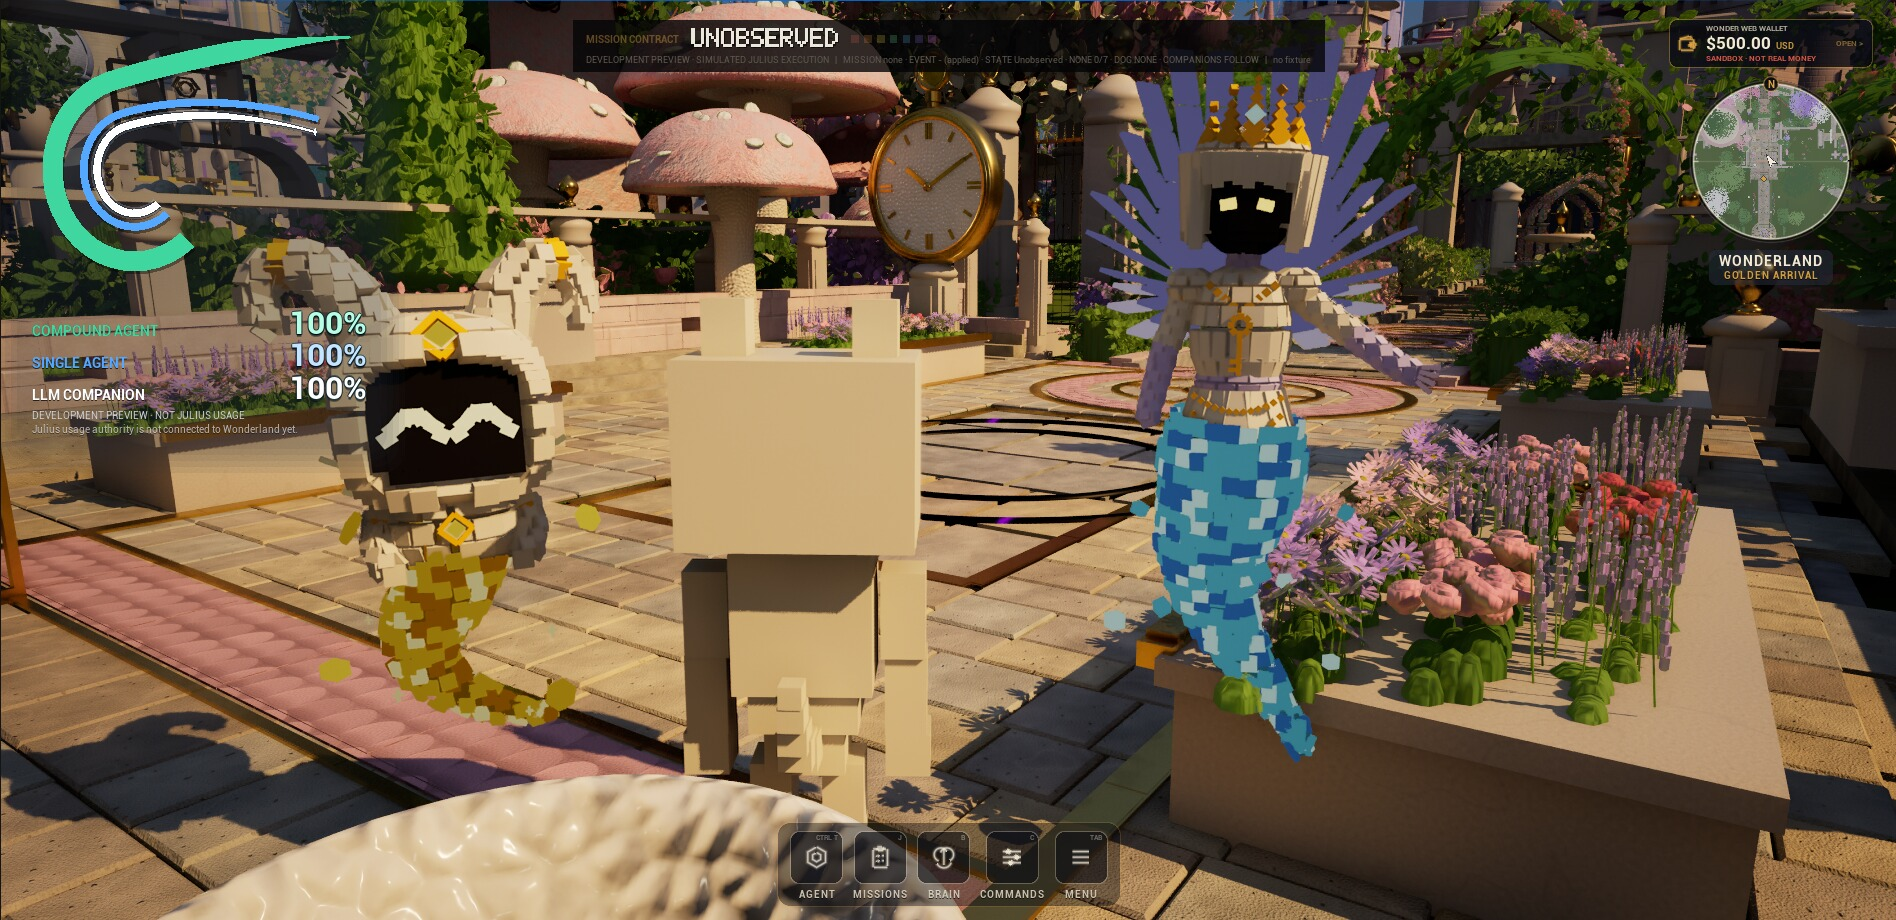
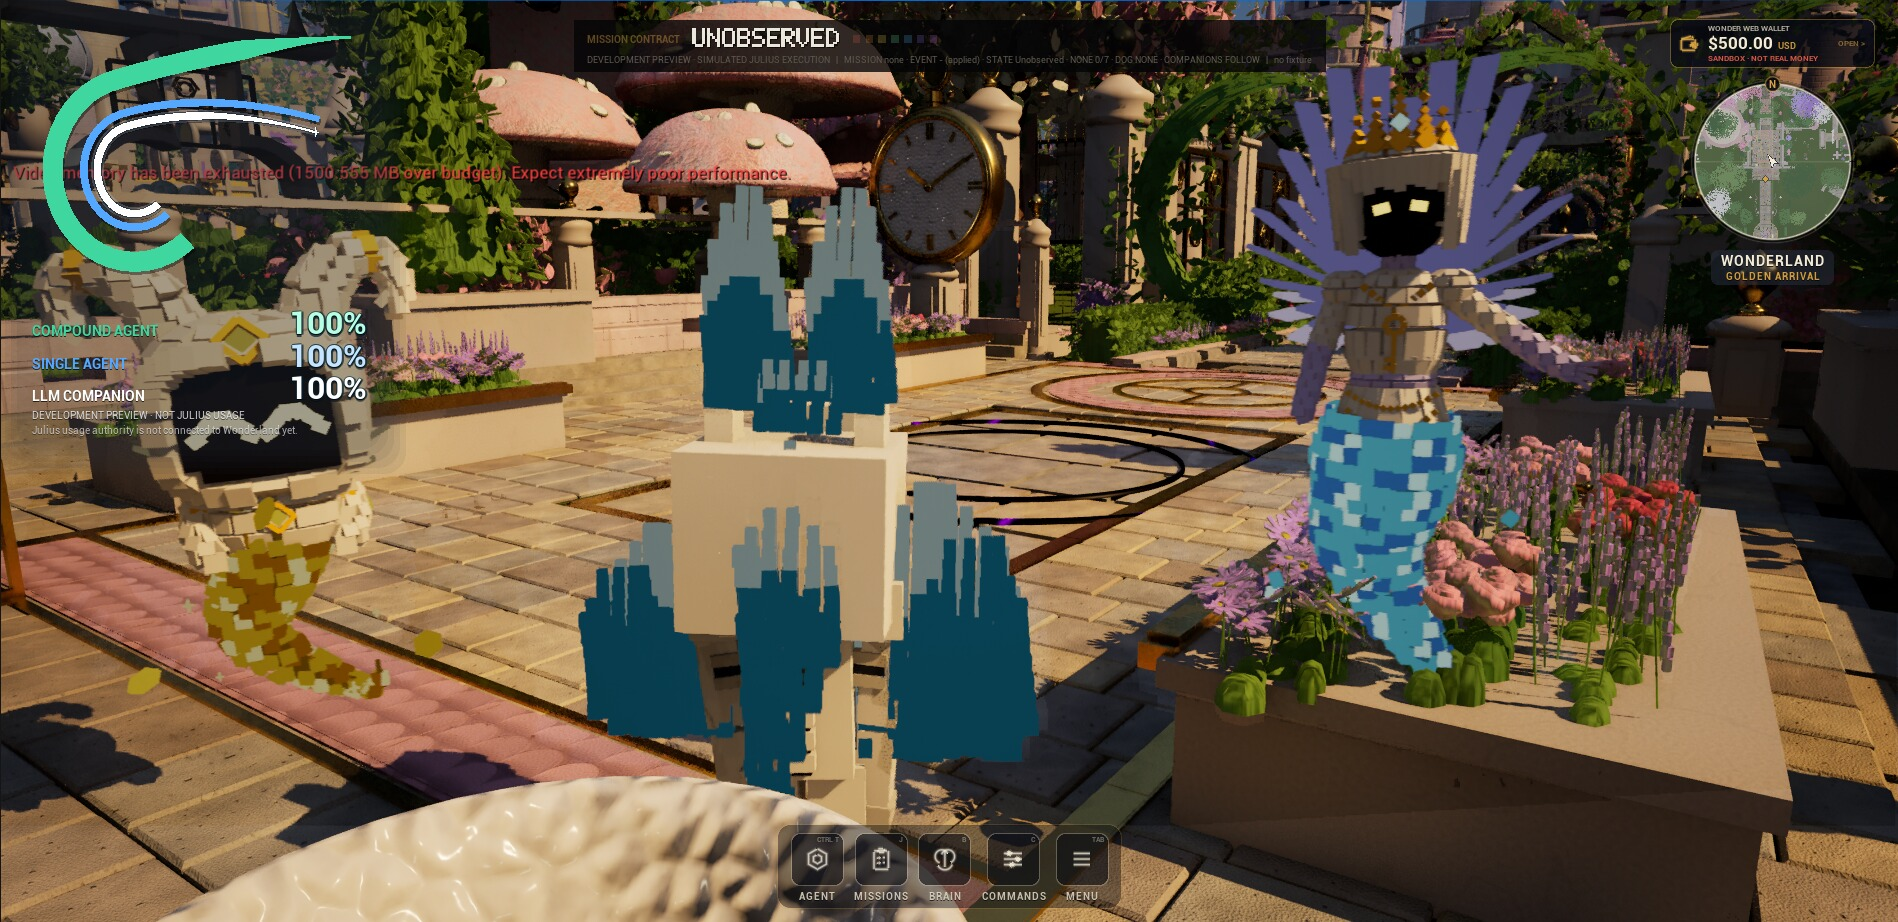
Wardrobe: the black preview works, and the view no longer moves when a skin is clicked
TWO FIXES, BOTH PIE VERIFIED, plus the measurement that should have caught this weeks ago.

1. THE MEASUREMENT WAS WRONG. Every previous run asked IsProjectBrainOpen(), got true, and reported the
   wardrobe fixed while the founder kept seeing Wonderland. The panel WAS open -- the camera had left. The
   panel staying open was never the question. zc_wardrobe_truth.py now samples the player controller's VIEW
   TARGET and the camera's world location before and after every single click. Measured across opening the
   wardrobe and clicking all five skins: CameraActor_60 at (-327.3, -650.0, 179.1), unchanged, every time.

2. THE BLACK BACKGROUND IS BACK, and the reason it was missing is worth recording. The skin stage HIDES its
   own back wall whenever it stands in the world -- "a dark wall in the arrival plaza would read as broken
   scenery", which was true when the preview body stood loose in the open plaza. It stopped being true the
   moment the body started being placed on the ray leaving the real camera through the wardrobe's window: the
   only thing that can see that wall now is the window, and a wall is exactly what was asked for there. Shown,
   squared to the body, sized off the figure's own height.

Verified in PIE: Project Brain open, wardrobe open, Relay OG / Apollo / Arden / Skeleton Flame / Celestial
Light each clicked -- preview updates, background is black, view target never moves, Project Brain never
closes. Five skins in the list; Bee and Hagoromo gone.
[…]

diff --git a/wonderland/Tools/editor_jobs/zc_wardrobe_truth.py b/wonderland/Tools/editor_jobs/zc_wardrobe_truth.py
@@ -1,0 +1,85 @@
+# DOES CLICKING A SKIN MOVE THE PLAYER'S VIEW?
+#
+# THE MEASUREMENT I GOT WRONG. Every previous run asked IsProjectBrainOpen() and came back true, so I reported
+# the wardrobe fixed while the founder kept seeing Wonderland. The panel WAS open. The camera had left. The
+# panel staying open was never the question.
+#
+# So this watches the thing that actually moves him: the player controller's VIEW TARGET, and the camera's
+# world location, sampled before and after every single click. If either changes, the click took him somewhere,
+# and that is a FAIL no matter what the panel says about itself.
+import os
+
+L = unreal.WonderlandUiTestLibrary
+H = unreal.WonderlandHudTestLibrary
+ROOT = os.path.join(os.path.dirname(CHANNEL), "captures", "zc", "wardrobe_truth")
+SKINS = ["relay_og", "apollo", "arden_infernal", "skeleton_flame", "celestial_light"]
+
+
+def job():
+    os.makedirs(ROOT, exist_ok=True)
+    for old in os.listdir(ROOT):
+        if old.endswith(".jpg"):
+            os.remove(os.path.join(ROOT, old))
+    les = unreal.get_editor_subsystem(unreal.LevelEditorSubsystem)
+    ues = unreal.get_editor_subsystem(unreal.UnrealEditorSubsystem)
+    rows = []
+    RESULT["clicks"] = rows
+    RESULT["status"] = "running"
+
+    yield (lambda: ues.get_game_world() is None, 1800)
+    L.set_background_throttle_suspended(True)
+    les.editor_request_begin_play()
+    yield (lambda: ues.get_game_world() is not None, 240)
+    yield (lambda: unreal.GameplayStatics.get_player_pawn(ues.get_game_world(), 0) is not None, 120)
+    yield 5.0
+    world = ues.get_game_world()
+    pc = unreal.GameplayStatics.get_player_controller(world, 0)
+    ui = L.get_ui(world)
+    L.focus_game_viewport()
+    yield 0.5
+
+    def view_state():
+        """What the player is actually looking through, and from where."""
+        target = pc.get_view_target()
+        cam = pc.player_camera_manager
+        loc = cam.get_camera_location() if cam else unreal.Vector(0, 0, 0)
+        return (target.get_name() if target else "none",
+                round(loc.x, 1), round(loc.y, 1), round(loc.z, 1))
+
+    def shot(name):
+        H.capture_viewport_jpeg(os.path.join(ROOT, "%s.jpg" % name), 1700, 90)
+
+    ui.toggle_project_brain()
+    yield 2.0
+    RESULT["brain_open"] = bool(ui.is_project_brain_open())
+    before_open = view_state()
+    RESULT["view_before_wardrobe"] = before_open
+    shot("01_brain")
+
+    RESULT["wardrobe_opened"] = bool(ui.set_brain_skins_open(True))
+    yield 2.2
+    after_open = view_state()
+    RESULT["view_after_wardrobe"] = after_open
+    RESULT["wardrobe_moved_the_view"] = (before_open != after_open)
+    shot("02_wardrobe")
+
+    for skin in SKINS:
+        before = view_state()
+        worn = bool(ui.wear_relay_skin(skin))
+        yield 1.8
+        after = view_state()
+        moved = (before != after)
+        rows.append({
+            "skin": skin, "worn": worn,
+            "view_before": before, "view_after": after,
+            "VIEW_MOVED": moved,
+            "brain_still_open": bool(ui.is_project_brain_open()),
+        })
+        shot("03_%s" % skin)
+
+    RESULT["any_click_moved_the_view"] = any(r["VIEW_MOVED"] for r in rows)
+    RESULT["brain_open_at_end"] = bool(ui.is_project_brain_open())
+    RESULT["view_at_end"] = view_state()
+    RESULT["status"] = "measured"
+    les.editor_request_end_play()
+    yield (lambda: ues.get_game_world() is None, 300)

diff --git a/wonderland/Source/Wonderland/WonderlandUiSubsystem.cpp b/wonderland/Source/Wonderland/WonderlandUiSubsystem.cpp
@@ -1539,6 +1539,39 @@ void UWonderlandUiSubsystem::FrameRelayDogInWardrobe(bool bOn)
 			// registry, so a click re-dresses it without anything here being told about it).
 			Stage->SetInWorldPreview(true, Spot - FVector(0.0, 0.0, Height * 0.5), (RealEye - Spot).GetSafeNormal2D().Rotation());
 		}
+
+		// AND THE BLACK GOES BEHIND THE NEW SPOT, not the old one.
+		//
+		// The backdrop above was placed relative to the virtual camera this function used to fly the player to.
+		// Once the subject started coming to the window instead, that camera stopped existing -- so the black
+		// panel was still being parked out in the garden while the preview window showed whatever the REAL
+		// camera happened to be pointing at. The founder's words: "Wardrobe still does NOT have the correct
+		// black background preview area." It was there, behind the wrong thing.
+		//
+		// Squarely across the ray, far enough past the figure to clear it, and big enough that the window's
+		// corners are still panel at that distance.
+		if (AActor* Black = Self->WardrobeBackdrop.Get())
+		{
+			const FVector Ray = Through.Vector();
+			const float BackOff = Distance * 0.55f;
+			const FVector At = Spot + Ray * BackOff;
+			const float Reach = Distance + BackOff;
+			const float HalfW = Reach * TanH * FMath::Max(Size.X, 0.05f) * 1.60f;
+			const float HalfH = Reach * TanV * FMath::Max(Size.Y, 0.05f) * 1.60f;
+			Black->SetActorLocationAndRotation(At, (RealEye - At).Rotation());
+			// The engine cube is 100 uu, and the wall faces the lens down its own X.
+			Black->SetActorScale3D(FVector(0.04f, FMath::Max(HalfW, 80.0f) / 50.0f, FMath::Max(HalfH, 80.0f) / 50.0f));
+			TInlineComponentArray<UStaticMeshComponent*> Parts(Black);
+			for (UStaticMeshComponent* Part : Parts)
+			{
+				// The deck belonged to a Dog standing on a garden floor. There is no floor in front of the
+				// lens here, so the wall alone is the background and the deck only gets in the way.
+				if (Part != nullptr && Part->GetFName() == TEXT("WardrobeBlackDeck"))
+				{
+					Part->SetVisibility(false, true);
+				}
+			}
+		}
 	}), 0.08f, true, 0.05f);
 }
 

diff --git a/wonderland/Source/Wonderland/WonderlandSkinStage.cpp b/wonderland/Source/Wonderland/WonderlandSkinStage.cpp
@@ -205,10 +205,25 @@ void AWonderlandSkinStage::SetInWorldPreview(bool bOn, FVector Where, FRotator F
 	}
 	if (Backdrop != nullptr)
 	{
-		// A DARK WALL IN THE ARRIVAL PLAZA WOULD READ AS BROKEN SCENERY, so the viewing room's back wall stays in
-		// the viewing room. It is still wanted when the stage is at home, where it is what makes two skins
-		// photographed an hour apart comparable.
-		Backdrop->SetVisibility(!bOn, true);
+		// THE WALL COMES WITH IT NOW, AND THAT IS THE WHOLE POINT.
+		//
+		// This used to hide the back wall whenever the stage stood in the world, because "a dark wall in the
+		// arrival plaza would read as broken scenery" -- true when the preview body stood loose in the open
+		// plaza with the player free to walk around it. It is no longer where this stands: the body is placed on
+		// the ray leaving the real camera through the centre of the wardrobe's window, so the only thing that
+		// ever sees this wall is that window, and a wall is exactly what the founder has asked for there --
+		// "a black background preview area... the currently equipped mascot visible there."
+		//
+		// Behind the body along its own facing, which already points at the viewer, and wide and tall enough
+		// that the window's corners are still wall. Square to the body so it never shows an edge.
+		Backdrop->SetVisibility(true, true);
+		if (bOn)
+		{
+			const float Reach = FMath::Max(Body != nullptr ? Body->GetFigureHeightUu() : 0.0f, 160.0f);
+			Backdrop->SetWorldScale3D(FVector(0.04f, Reach * 0.075f, Reach * 0.055f));
+			Backdrop->SetWorldLocation(Home - Facing.Vector() * (Reach * 1.25f) + FVector(0.0, 0.0, Reach * 0.45f));
+			Backdrop->SetWorldRotation(Facing + FRotator(0.0, 180.0, 0.0));
+		}
 	}
 	if (Plinth != nullptr)
 	{
